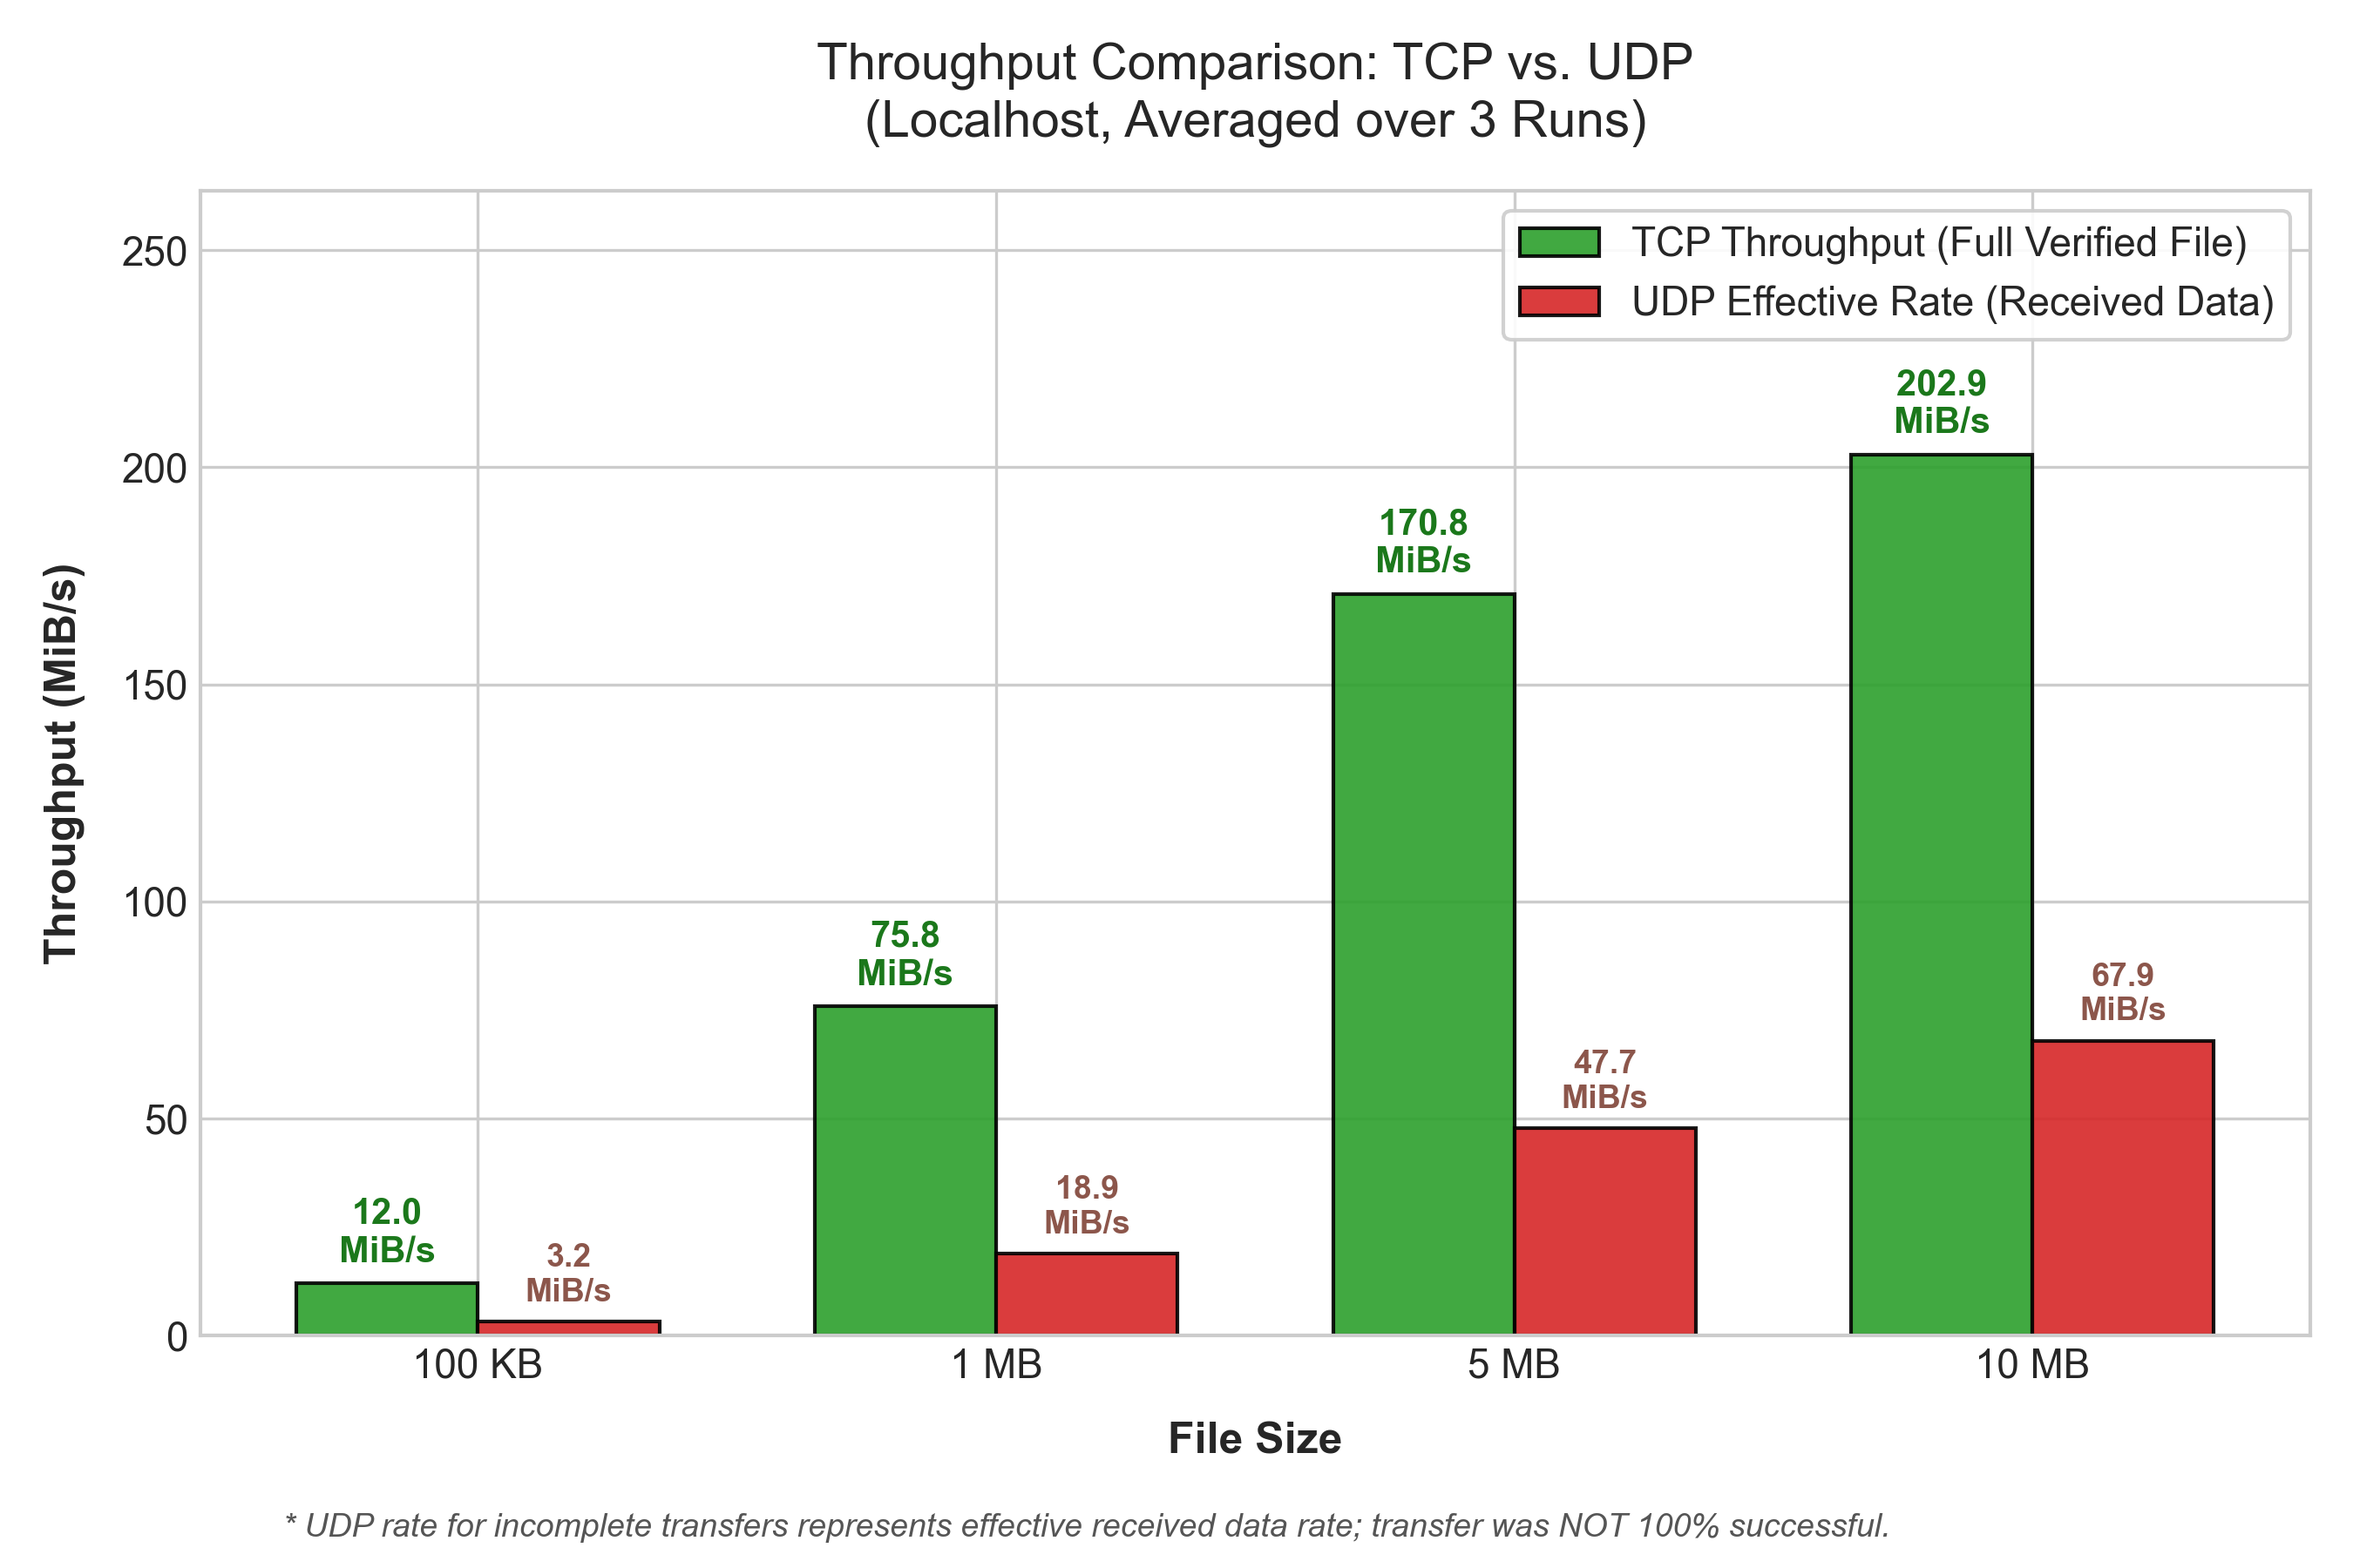
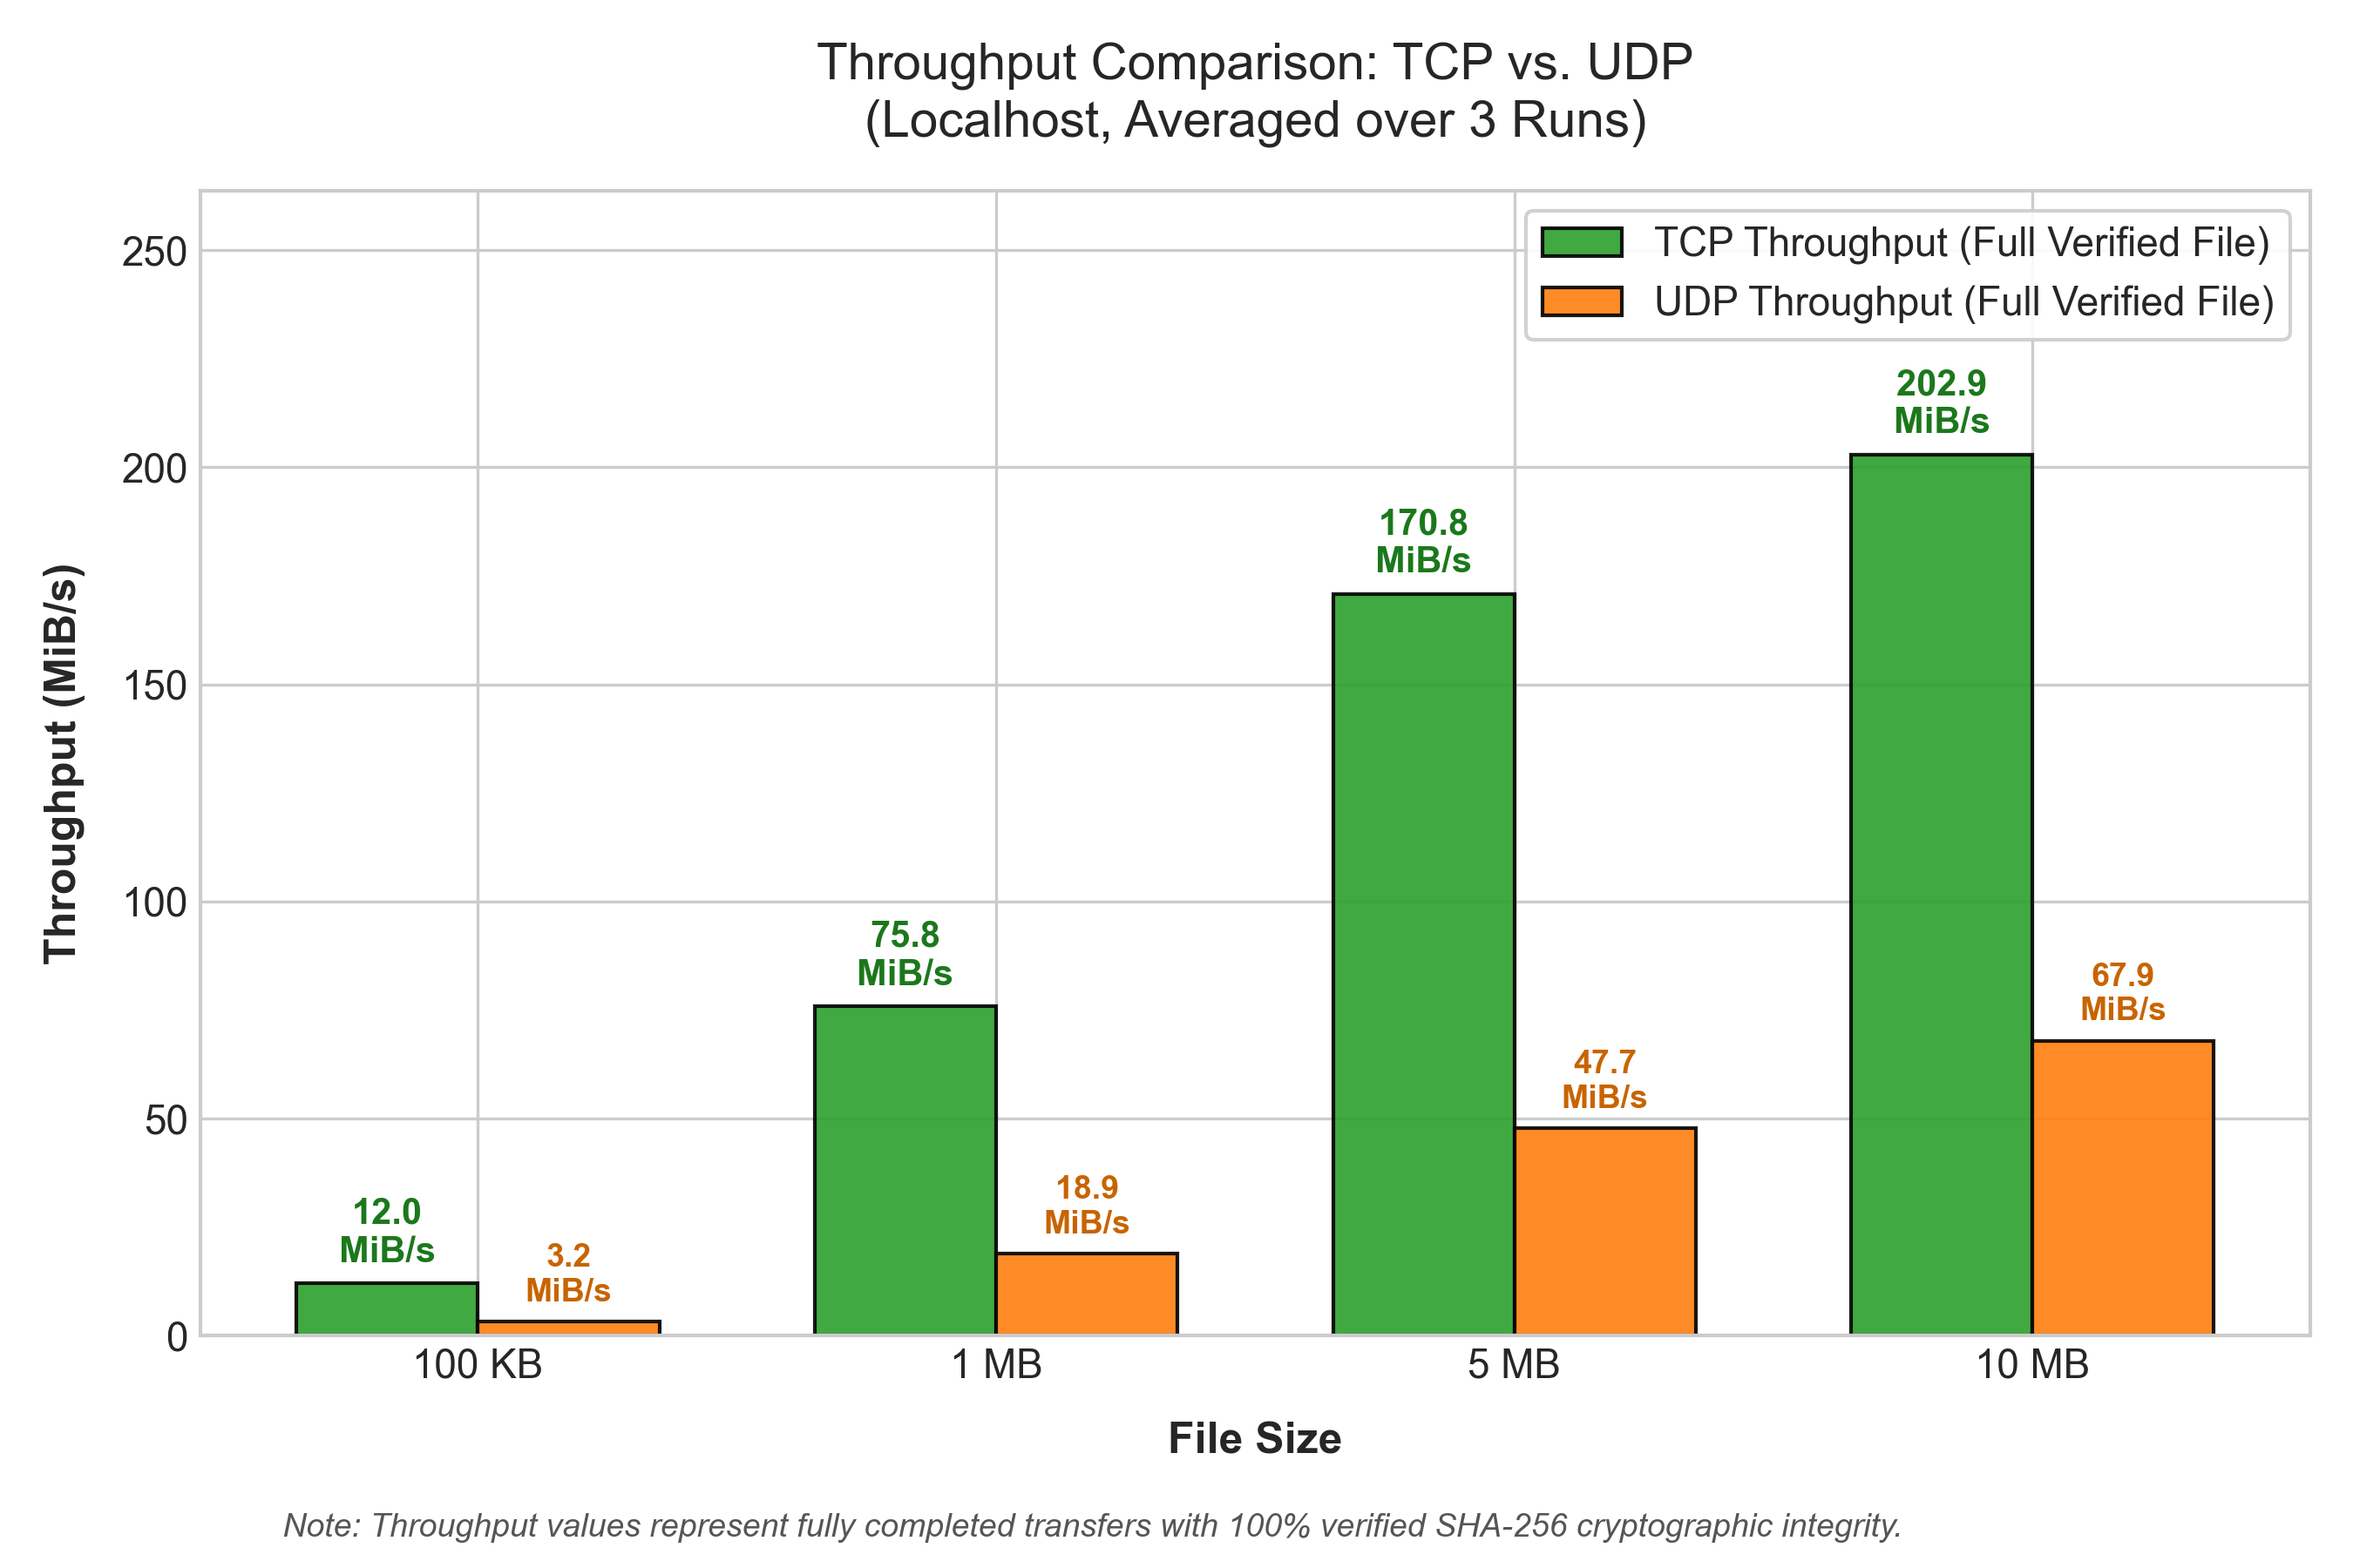
Fix graph captions and update transmission time analysis wording

diff --git a/scripts/plot_results.py b/scripts/plot_results.py
@@ -55,6 +55,9 @@ def generate_plots():
                         xytext=(0, 4), textcoords="offset points",
                         ha='center', va='bottom', fontsize=10, fontweight='bold', color='#1f77b4')
 
+    # Dynamic footnote based on actual transfer completion
+    has_incomplete_udp = any(udp_summary['Success_Rate_Pct'] < 100.0)
+
     for i, bar in enumerate(bars_udp):
         val = bar.get_height()
         comp_rate = udp_summary.iloc[i]['Success_Rate_Pct']
@@ -75,8 +78,10 @@ def generate_plots():
     ax.legend(frameon=True, facecolor='white', framealpha=0.9)
     ax.set_ylim(0, max(np.nanmax(tcp_times), np.nanmax(udp_times)) * 1.25)
 
-    fig.text(0.12, 0.02, '* Note: Red/parenthesized annotations indicate incomplete UDP transfers due to socket buffer overflow.',
-             fontsize=9, style='italic', color='#555555')
+    time_caption = ('* Note: Red/parenthesized annotations indicate incomplete UDP transfers due to socket buffer overflow.'
+                    if has_incomplete_udp else
+                    'Note: All TCP and UDP transfers completed with 100% success and verified SHA-256 integrity (3 runs averaged).')
+    fig.text(0.12, 0.02, time_caption, fontsize=9, style='italic', color='#555555')
 
     plt.tight_layout(rect=[0, 0.04, 1, 1])
     time_plot_path = os.path.join(results_dir, "transmission_time.png")
@@ -93,7 +98,9 @@ def generate_plots():
     udp_tput = udp_summary['Avg_Throughput_MiBps'].values
 
     bars_tcp2 = ax.bar(x - width/2, tcp_tput, width, label='TCP Throughput (Full Verified File)', color='#2ca02c', edgecolor='black', alpha=0.9)
-    bars_udp2 = ax.bar(x + width/2, udp_tput, width, label='UDP Effective Rate (Received Data)', color='#d62728', edgecolor='black', alpha=0.9)
+    bars_udp2 = ax.bar(x + width/2, udp_tput, width,
+                       label='UDP Throughput (Full Verified File)' if not has_incomplete_udp else 'UDP Effective Rate (Received Data)',
+                       color='#ff7f0e' if not has_incomplete_udp else '#d62728', edgecolor='black', alpha=0.9)
 
     for i, bar in enumerate(bars_tcp2):
         val = bar.get_height()
@@ -113,7 +120,7 @@ def generate_plots():
                         xy=(bar.get_x() + bar.get_width() / 2, val),
                         xytext=(0, 4), textcoords="offset points",
                         ha='center', va='bottom', fontsize=9, fontweight='bold',
-                        color='#d62728' if not is_comp else '#8c564b')
+                        color='#d62728' if not is_comp else '#c86400')
 
     ax.set_xlabel('File Size', fontweight='bold', labelpad=10)
     ax.set_ylabel('Throughput (MiB/s)', fontweight='bold', labelpad=10)
@@ -123,8 +130,10 @@ def generate_plots():
     ax.legend(frameon=True, facecolor='white', framealpha=0.9)
     ax.set_ylim(0, max(np.nanmax(tcp_tput), np.nanmax(udp_tput)) * 1.3)
 
-    fig.text(0.12, 0.02, '* UDP rate for incomplete transfers represents effective received data rate; transfer was NOT 100% successful.',
-             fontsize=9, style='italic', color='#555555')
+    tput_caption = ('* UDP rate for incomplete transfers represents effective received data rate; transfer was NOT 100% successful.'
+                    if has_incomplete_udp else
+                    'Note: Throughput values represent fully completed transfers with 100% verified SHA-256 cryptographic integrity.')
+    fig.text(0.12, 0.02, tput_caption, fontsize=9, style='italic', color='#555555')
 
     plt.tight_layout(rect=[0, 0.04, 1, 1])
     tput_plot_path = os.path.join(results_dir, "throughput.png")

diff --git a/results/analysis.md b/results/analysis.md
@@ -42,10 +42,10 @@ The table below summarizes the aggregated benchmark results extracted from `resu
 
 ### Q1: How does transmission time change as file size increases?
 
-For both protocols, transmission time scales monotonically with file size:
+Transfer time generally increases with file size, although small measurements can fluctuate because of fixed overhead and timing variability:
 - **TCP Transmission Time:**
   - 100 KB: ~0.0145 seconds
-  - 1 MB: ~0.0134 seconds
+  - 1 MB: ~0.0134 seconds (slight reduction due to timing variability and socket/OS warm-up)
   - 5 MB: ~0.0323 seconds
   - 10 MB: ~0.0518 seconds
 - **UDP Transmission Time:**
@@ -54,7 +54,7 @@ For both protocols, transmission time scales monotonically with file size:
   - 5 MB: ~0.1052 seconds
   - 10 MB: ~0.1476 seconds
 
-**Key Observation:** For small files (e.g., 100 KB), the initial fixed overhead (connection establishment, thread coordination, metadata exchange, and socket setup) dominates the total measured time. As the payload grows from 1 MB to 10 MB, transmission time becomes proportional to data volume, reflecting the raw data pumping and memory copying capacity of the operating system.
+**Key Observation:** For small files (such as 100 KB and 1 MB), fixed initialization costs—including socket allocation, thread scheduling, metadata exchange, and OS buffer priming—constitute a major fraction of the total measurement. Consequently, small measurements can exhibit slight non-monotonic fluctuations before the linear scaling with data volume becomes dominant from 5 MB to 10 MB.
 
 ---
 
